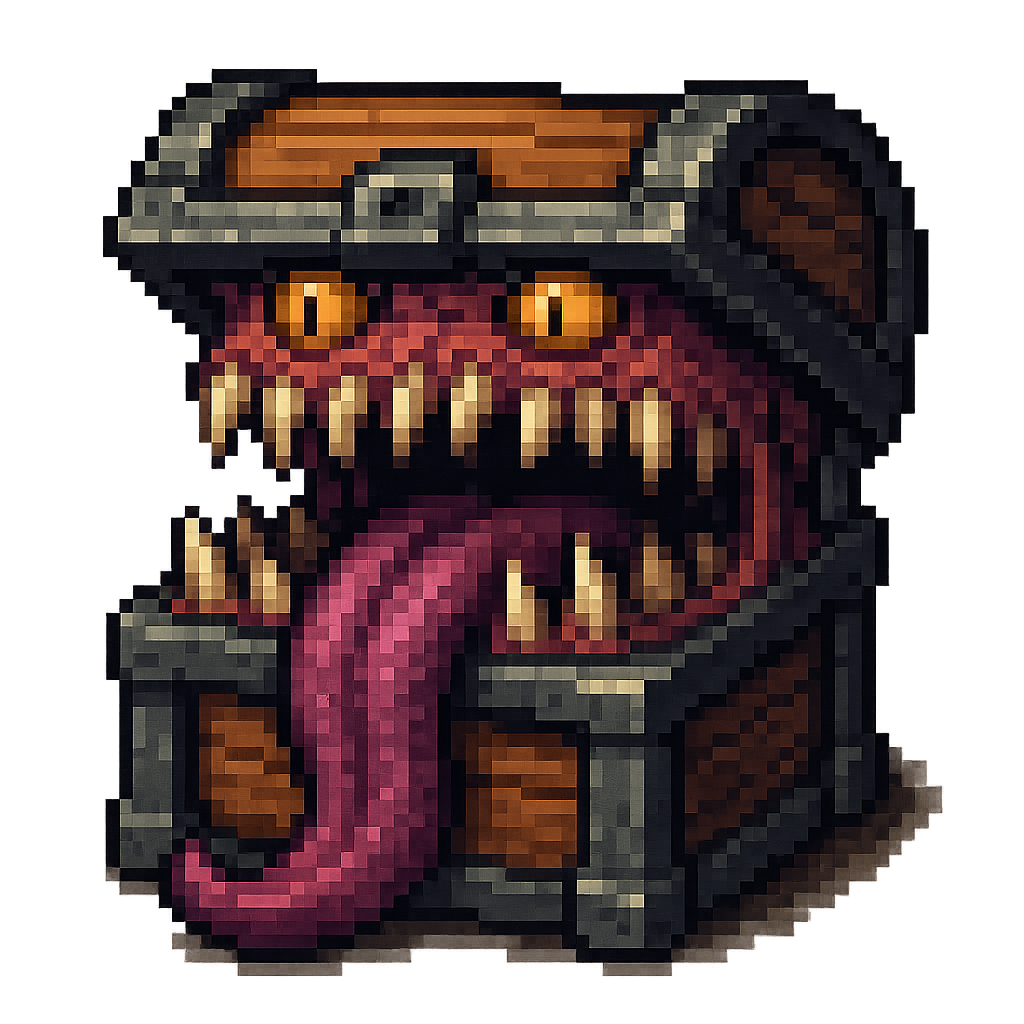
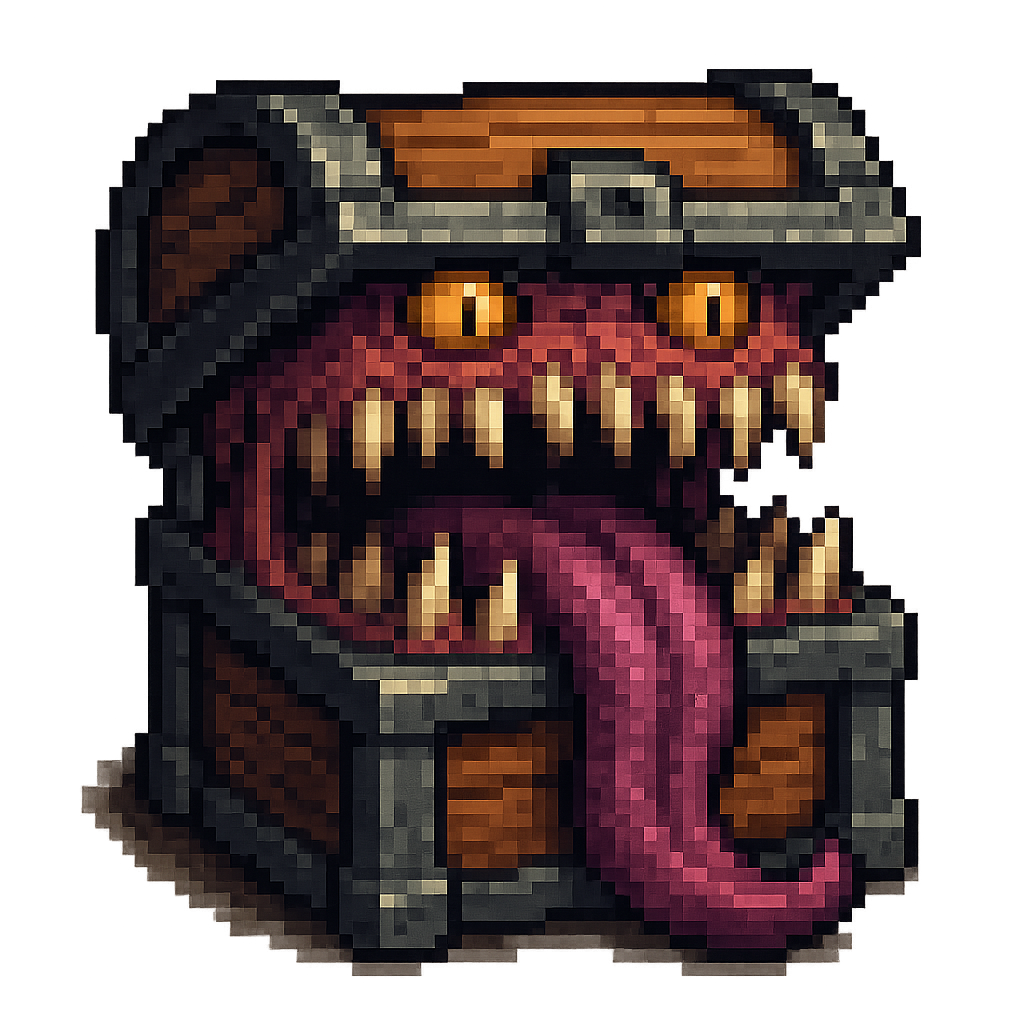
image updates

diff --git a/src/components/combat/fighter-display.tsx b/src/components/combat/fighter-display.tsx
@@ -11,6 +11,7 @@ interface FighterDisplayProps {
   imageAlt: string;
   currentHp: number;
   maxHp: number;
+  scale?: number;
   isEnemy?: boolean;
   isElite?: boolean;
   effects?: Record<string, any>[];
@@ -27,6 +28,7 @@ export default function FighterDisplay({
   imageAlt,
   currentHp,
   maxHp,
+  scale = 1.0,
   isEnemy = false,
   isElite = false,
   effects = [],
@@ -91,8 +93,8 @@ export default function FighterDisplay({
           <Image
             src={image}
             alt={imageAlt}
-            width={width}
-            height={height}
+            width={width * scale}
+            height={height * scale}
             className={isEnemy ? "-scale-x-100" : ""}
           />
         </div>

diff --git a/src/components/combat/CombatScene.tsx b/src/components/combat/CombatScene.tsx
@@ -70,6 +70,7 @@ export default function CombatScene({
             imageAlt={combat.monster.name}
             currentHp={monsterCurrentHp}
             maxHp={combat.monster.hitpoints}
+            scale={combat.monster.scale ? combat.monster.scale : 1.0}
             isEnemy={true}
             isElite={combat.monster.is_elite}
             effects={monsterEffects}

diff --git a/src/lib/database-types.ts b/src/lib/database-types.ts
@@ -384,6 +384,7 @@ export interface Database {
           attack_type: string
           abilities: Json | null
           image_url: string | null
+          scale?: number | null
           is_elite?: boolean
           base_monster_id?: number | null
           reward_table?: number
